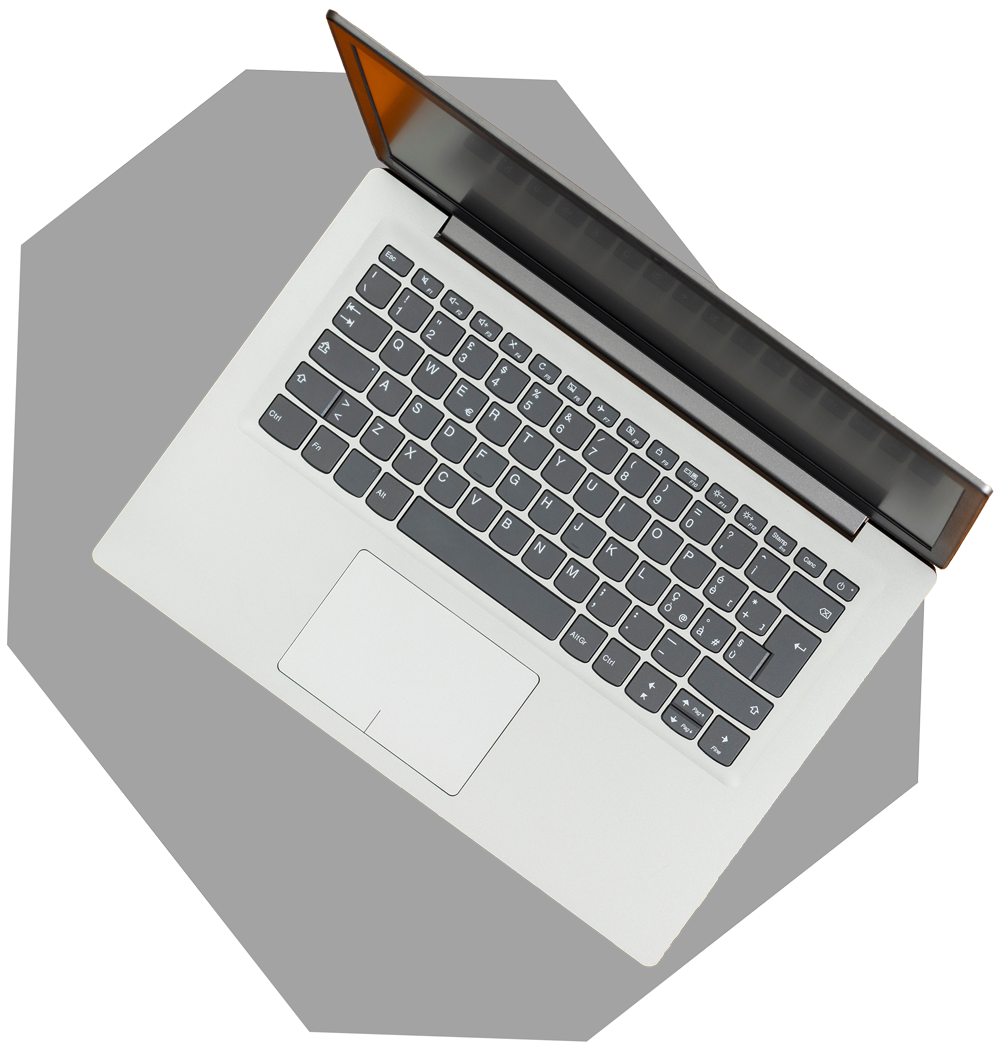
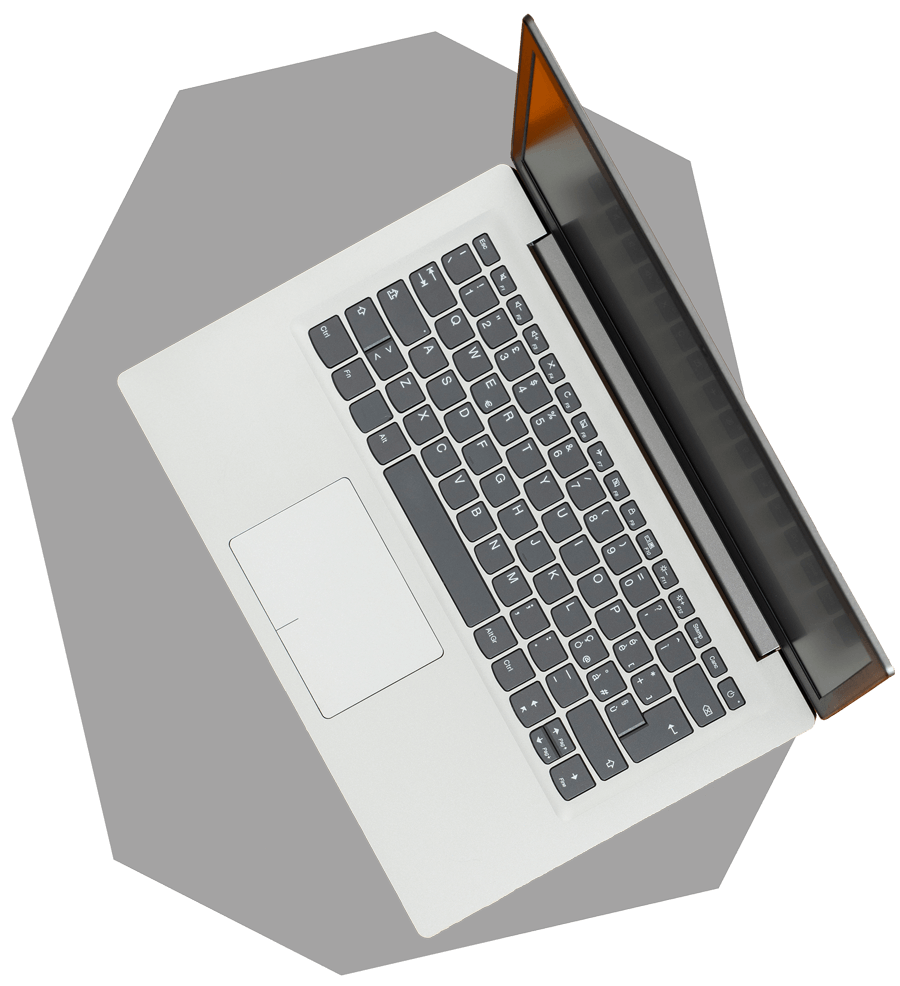
viilaukset

diff --git a/src/components/Palvelutcard.js b/src/components/Palvelutcard.js
@@ -65,7 +65,7 @@ const Palvelutcard = () => {
   return (
     <Box  sx={{  position:'relative', paddingBottom:4 , maxWidth: 1200 , margin:'auto' }}>
 
-      <Paaotsikko otsikko={'Palveluitamme'} teksti={'Olemme asiakaslähtöinen ja ammattitaitoinen suunnittelutoimisto, jossa asiointi on sujuvaa ja nopeaa. Tarjoamme kattavat LVIA-suunnittelu- ja konsultointipalvelut. Palvelemme asiakkaita niin tavanomaisissa, kuin vaativissakin projekteissa.'} />
+      <Paaotsikko otsikko={'Palveluitamme'} teksti={'Olemme asiakaslähtöinen ja ammattitaitoinen suunnittelutoimisto, jossa asiointi on sujuvaa ja nopeaa. Tarjoamme kattavat LVIA-suunnittelu- ja konsultointipalvelut. Palvelemme asiakkaita niin tavanomaisissa kuin vaativissakin projekteissa.'} />
       <Stack sx={{ justifyContent:'center', alignItems:'center', display:'flex', gap:{ xs:0,md:9 } }} direction={{ xs:'column', md:'row' }}>
         <div className='palvelutcontainer'>
           <div className='palvelutbox'>
@@ -99,7 +99,7 @@ const Palvelutcard = () => {
                 <Typography variant='h4' sx={{ fontWeight:600, marginBottom:2 , height:120 }}>
                           KVV-/IV-työnjohtajan palvelut</Typography>
                 <Typography variant='body1' sx={{ textAlign:'left', height:200 , paddingLeft:2 }}>
-                          Tilaamalla meiltä KVV-/IVtyönjohtajan palvelut saat ammattilaiset rinnallasi, jotka huolehtivat siitä, että kaikki sujuu suunnitelmien mukaisesti ja lopputulos on juuri sellainen kuin odotit. Ota yhteyttä ja säästä itsesi turhilta huolilta ja kustannuksilta.</Typography>
+                          Tilaamalla meiltä KVV-/IV-työnjohtajan palvelut saat ammattilaiset rinnallasi, jotka huolehtivat siitä, että kaikki sujuu suunnitelmien mukaisesti ja lopputulos on juuri sellainen kuin odotit. Ota yhteyttä ja säästä itsesi turhilta huolilta ja kustannuksilta.</Typography>
                 <button className='palveluticon' onClick={handleOpenKVV} onKeyUp={handleOpenKVV} type='button' tabIndex='0'><Typography sx={{ cursor:'pointer' }}>Lue lisää</Typography></button>
               </div></div></div></div></Stack>
 
@@ -133,46 +133,6 @@ const Palvelutcard = () => {
             <Stack direction={'column'} sx={{ alignItems:'center' }}>
 
               <List dense={true}>
-
-                {/* <ListItem onClick={() => setopen(true)} role='button' sx={{ cursor:'pointer' }}>
-                  <ListItemIcon>
-                    <RoofingIcon />
-                  </ListItemIcon>
-                  <ListItemText
-                    primary={'LVIA-suunnittelu'}
-
-                  />
-                  <ListItemIcon>
-                    <ArrowForwardIosIcon />
-                  </ListItemIcon>
-                </ListItem> */}
-
-                {/* <ListItem  onClick={handleOpenKVV} role='button' sx={{ cursor:'pointer' }}>
-                  <ListItemIcon>
-                    <RoofingIcon />
-                  </ListItemIcon>
-                  <ListItemText
-                    primary={'KVV-/IV- työnjohtajapalvelut'}
-                    secondary={'tavanomaisista eritysvaativiin kohteisiin'}
-                  />
-                  <ListItemIcon>
-                    <ArrowForwardIosIcon />
-                  </ListItemIcon>
-
-                </ListItem> */}
-
-                {/* <ListItem onClick={handleOpenProjekti} role='button' sx={{ cursor:'pointer' }}>
-                  <ListItemIcon>
-                    <RoofingIcon />
-                  </ListItemIcon>
-                  <ListItemText
-                    primary={'Projektinjohto ja valvontatehtävät'}
-
-                  />
-                  <ListItemIcon>
-                    <ArrowForwardIosIcon />
-                  </ListItemIcon>
-                </ListItem> */}
 
                 <ListItem onClick={handleOpenMaa} role='button' sx={{ cursor:'pointer' }} >
                   <ListItemIcon>
@@ -303,7 +263,7 @@ const Palvelutcard = () => {
               <Box id="modal-dialog-overflowLVI-suunnittelu" sx={{ mt: 2 }}>
                 <Stack sx={{ gap:2 }}>
                   <Typography>
-                LVI-suunnittelu on olennainen osa rakennuksen talotekniikkaa ja keskeinen tekijä sen elinkaaren aikaisen suorituskyvyn ja asumismukavuuden kannalta. Meidän insinööritoimistossamme panostamme laadukkaaseen ja asiakaslähtöiseen LVI-suunnitteluun, joka optimoi energiankulutuksen, parantaa sisäilman laatua ja takaa kustannustehokkaan toiminnan.
+                LVI-suunnittelu on olennainen osa rakennuksen talotekniikkaa ja keskeinen tekijä sen elinkaaren aikaisen suorituskyvyn ja asumismukavuuden kannalta.
                   </Typography>
                   <Typography>
                 Talotekniikan suunnittelussa kiinnitämme erityistä huomiota energiakustannuksiin rakennuksen koko elinkaaren aikana, erityisesti lämmitysjärjestelmissä. Pyrimme suunnittelemaan yksinkertaisia ja toimintavarmoja järjestelmiä, mikä vähentää huollon tarvetta ja parantaa energiatehokkuutta.
@@ -381,13 +341,13 @@ const Palvelutcard = () => {
                 </Stack>
                 <Stack sx={{ gap:2 }}>
                   <Typography>
-                Suosittelemme aloittamaan LVI-suunnittelun jo ennen rakennusluvan hakemista, sillä useilla paikkakunnilla lupa-asiakirjojen liitteenä vaaditaan suunnitelma ulkopuolisesta LVI-tekniikasta. Tämän lisäksi on tärkeää huomioida tarvittavat tilavaraukset laitteille, teknisille tiloille ja pääreiteille jo rakennusprojektin alkuvaiheessa.
+                Suosittelemme aloittamaan LVI-suunnittelun jo ennen rakennusluvan hakemista, sillä useilla paikkakunnilla lupa-asiakirjojen liitteenä vaaditaan suunnitelma ulkopuolen LVI-tekniikasta. Tämän lisäksi on tärkeää huomioida tarvittavat tilavaraukset laitteille, teknisille tiloille ja pääreiteille jo rakennusprojektin alkuvaiheessa.
                   </Typography>
                   <Typography>
                   Olemme vastuullinen insinööritoimisto, joka huolehtii siitä, että LVI-suunnitelmat täyttävät rakennusvalvontaviranomaisten vaatimukset. Suunnitelmat toteutetaan aina asiakkaan tarpeiden ja toiveiden pohjalta, mutta tuomme myös omat näkemyksemme esiin, jotta lopputulos on toimiva ja energiatehokas.
                   </Typography>
                   <Typography>
-                Hyödynnämme asiakkaan toiveesta suunnittelussamme tietomallinnusta (BIM, Building Information Model), joka mahdollistaa rakennuskohteen kolmiulotteisen digitaalisen esittämisen. Tietomallinnus tehostaa LVI-suunnitteluprosessia ja parantaa suunnittelun kustannustehokkuutta. Se mahdollistaa myös jatkuvan päivityksen työmaalta saatujen tietojen perusteella, jolloin asiakkaalle voidaan luovuttaa ajantasainen ja täysin toteutusta vastaava tietomalli rakennuksen valmistuttua.
+                Asiakkaan niin halutessa hyödynnämme suunnittelussamme tietomallinnusta (BIM, Building Information Model), joka mahdollistaa rakennuskohteen kolmiulotteisen esittämisen digitaalisti. Tietomallinnus tehostaa LVI-suunnitteluprosessia ja parantaa suunnittelun kustannustehokkuutta. Se mahdollistaa myös jatkuvan päivityksen työmaalta saatujen tietojen perusteella, jolloin asiakkaalle voidaan luovuttaa ajantasainen ja täysin toteutusta vastaava tietomalli rakennuksen valmistuttua.
                   </Typography>
                 </Stack>
               </Box>
@@ -426,7 +386,7 @@ const Palvelutcard = () => {
               </Typography>
               <Box id="modal-dialog-Projektijohto21" sx={{ mt: 2 }}>
                 <Typography>
-              Tarjoamme projektinjohto- ja rakennuttamistehtäviä, jotka toteutamme hankkeen tarpeiden mukaisesti.
+              Otamme vastaan projektinjohto- ja rakennuttamistehtäviä, jotka toteutamme hankkeen tarpeiden mukaisesti.
                 </Typography>
                 <Typography>Näihin tehtäviin kuuluvat mm.</Typography>
                 <List dense={true}>
@@ -551,11 +511,7 @@ const Palvelutcard = () => {
                 KVV- ja IV- työnjohtaja toimii rakennuttajan edunvalvojana varmistaen, että suunnitelmat ja määräykset toteutetaan työmaalla asianmukaisesti.
 
                   </Typography>
-                  <Typography>
-                KVV- ja IV- työnjohtajamme pätevyys on erityisvaativa. Toimeksiannoissamme noudatamme konsulttialan yleisiä sopimusehtoja KSE 2013.
-                  </Typography>
-
-                  <Typography>KVV- ja IV- työnjohtajan tehtävä on:</Typography>
+                  <Typography>KVV- ja IV- työnjohtajan tehtävänä on valvoa:</Typography>
                 </Stack>
                 <List dense={true}>
 
@@ -565,6 +521,7 @@ const Palvelutcard = () => {
                     </ListItemIcon>
                     <ListItemText
                       primary="Valvoa työvaiheiden sujumista"
+                      secondary='KVV- ja IV- vastaava työnjohtaja ottaa vastuun töistä ja pitää huolen siitä, että kaikki vesi-, viemäri- ja ilmanvaihtotyöt toteutetaan turvallisesti, terveellisesti ja viranomaismääräysten mukaisesti.'
 
                     />
                   </ListItem>
@@ -574,7 +531,7 @@ const Palvelutcard = () => {
                     </ListItemIcon>
                     <ListItemText
                       primary="Laadun varmistamista"
-
+                      secondary='Hankkimalla työnjohtajan palvelut jo projektin alkuvaiheessa varmistat, että työmaasi etenee sujuvasti, suunnitelmat toteutuvat sovitusti ja kaikki viranomaismääräykset ovat täytetty.'
                     />
                   </ListItem>
                   <ListItem>
@@ -583,20 +540,17 @@ const Palvelutcard = () => {
                     </ListItemIcon>
                     <ListItemText
                       primary="Työn suorittamista oikein"
-
+                      secondary='Työnjohtajamme pystyy tarjoamaan arvokkaita neuvoja ja ohjausta, jotka auttavat sinua tekemään oikeita päätöksiä ja välttämään mahdolliset sudenkuopat, joita rakennusprosessi saattaa sisältää. Se puolestaan auttaa sinua välttämään mahdolliset ongelmat ja ylimääräiset kustannukset myöhemmin.'
                     />
                   </ListItem>
 
                 </List>
                 <Stack sx={{ gap:2 }}>
                   <Typography>
-                KVV- ja IV- vastaava työnjohtaja ottaa vastuun töistä ja pitää huolen siitä, että kaikki vesi-, viemäri- ja ilmanvaihtotyöt toteutetaan turvallisesti, terveellisesti ja viranomaismääräysten mukaisesti.
-                  </Typography>
-                  <Typography>
-                Hankkimalla työnjohtajan palvelut jo projektin alkuvaiheessa varmistat, että työmaasi etenee sujuvasti, suunnitelmat toteutuvat sovitusti ja kaikki viranomaismääräykset ovat täytetty. Työnjohtajamme pystyy tarjoamaan arvokkaita neuvoja ja ohjausta, jotka auttavat sinua tekemään oikeita päätöksiä ja välttämään mahdolliset sudenkuopat, joita rakennusprosessi saattaa sisältää. Se puolestaan auttaa sinua välttämään mahdolliset sudenkuopat ja ylimääräiset kustannukset myöhemmin.
-                  </Typography>
-                  <Typography>
                 Varmista, että sinulla on ammattilainen rinnallasi, joka huolehtii siitä, että kaikki sujuu suunnitelmien mukaisesti ja lopputulos on juuri sellainen kuin odotit. Ota yhteyttä ja säästä itsesi turhilta huolilta ja kustannuksilta.
+                  </Typography>
+                  <Typography>
+                KVV- ja IV- työnjohtajamme pätevyys on erityisvaativa. Toimeksiannoissamme noudatamme konsulttialan yleisiä sopimusehtoja KSE 2013.
                   </Typography>
                 </Stack>
               </Box>

diff --git a/src/components/Lupauksemme.js b/src/components/Lupauksemme.js
@@ -10,17 +10,17 @@ const Lupauksemme = () => {
         <Paaotsikko otsikko={'Miksi valita meidät?'} teksti={'Asiakkaiden luottamus on arvokkain voimavaramme! Sitoudumme tinkimättömään laatuun ja asiakkaan tyytyväisyyteen jokaisessa kohtaamisessa.'} />
       </Box>
       <Stack direction={'column'} sx={{ maxWidth:950, margin:'auto', gap:3, padding:3, paddingTop:3 }}>
-        <Lupaus teksti={'Laatu on meille ykkösasia. Tarjoamme LVI-suunnittelupalveluita, joissa huippulaatu on taattu. Kokeneet suunnittelijamme varmistavat, että jokainen suunnitelma on tarkka, kestävä ja toimiva. Käytämme parhaita materiaaleja ja nykyaikaisia suunnittelumenetelmiä varmistaaksemme rakennuksesi pitkäikäisyyden ja toiminnallisuuden. Luota ammattitaitoomme ja valitse laadukas LVI-suunnittelu.'} otsikko1={'Korkea laatu'} otsikko2={''}/>
+        <Lupaus teksti={'Laatu on meille ykkösasia. Tarjoamme LVI-suunnittelupalveluita, joissa huippulaatu on taattu. Kokeneet suunnittelijamme varmistavat, että jokainen suunnitelma on tarkka, kestävä ja toimiva. Käytämme parhaita materiaaleja ja nykyaikaisia suunnittelumenetelmiä varmistaaksemme rakennuksesi pitkäikäisyyden ja toiminnallisuuden. Luota ammattitaitoomme ja valitse laadukas LVI-suunnittelu.'} otsikko1={'Korkea laatu'} />
 
-        <Lupaus teksti={'Toimintamme on läpinäkyvää ja avointa. Näet kaiken dokumentaation kätevästi millä tahansa verkkolaitteella pilvipohjaisen modernin ohjelmiston avulla.'} otsikko1={'Läpinäkyvyys'} otsikko2={''}/>
-
-
-        <Lupaus teksti={'Meidän LVI-suunnittelupalvelumme takaavat nopean reagoinnin ja tehokkaan työnkulun. Ammattitaitoinen tiimimme kykenee toimittamaan korkealaatuiset suunnitelmat lyhyessä ajassa, jotta voit aloittaa rakennusprojektisi nopeasti. Säästä aikaa ja vaivaa valitsemalla meidät nopeuden ja laadun tinkimättömyyden vuoksi.'} otsikko1={'Nopeus'} otsikko2={''}/>
+        <Lupaus teksti={'Toimintamme on läpinäkyvää ja avointa. Näet kaiken dokumentaation kätevästi millä tahansa verkkolaitteella pilvipohjaisen modernin ohjelmiston avulla.'} otsikko1={'Läpinäkyvyys'}/>
 
 
-        <Lupaus teksti={'Säästä rahaa pitkällä tähtäimellä valitsemalla kustannustehokas LVI-suunnittelu. Meidän palvelumme keskittyvät energiatehokkuuteen ja resurssien optimaaliseen hyödyntämiseen. Suunnittelemme LVI-järjestelmät siten, että ne tarjoavat tehokkaan energiankulutuksen ja alhaiset käyttökustannukset. Näin voit säästää rahaa rakennuksen koko elinkaaren ajan. Olemme kumppanisi kohti taloudellisesti kannattavia ratkaisuja.'} otsikko1={'Kustannustehokkuus'} otsikko2={''}/>
+        <Lupaus teksti={'Meidän LVI-suunnittelupalvelumme takaavat nopean reagoinnin ja tehokkaan työnkulun. Ammattitaitoinen tiimimme kykenee toimittamaan korkealaatuiset suunnitelmat lyhyessä ajassa, jotta voit aloittaa rakennusprojektisi sujuvasti. Säästä aikaa ja vaivaa valitsemalla meidät nopeuden ja laadun tinkimättömyyden vuoksi.'} otsikko1={'Nopeus'}/>
 
-        <Lupaus teksti={'Asiakkaitemme tarpeet ovat meille ensisijaisia. Asiakaslähtöinen LVI-suunnittelu on vahvuutemme, ja tavoitteenamme on toteuttaa visiosi sellaisena kuin haluat. Käytämme aikaa kuunnellaksemme tarpeitasi ja ymmärtääksemme projektisi vaatimukset. Tämän avulla pystymme suunnittelemaan LVI-ratkaisuja, jotka vastaavat täysin odotuksiasi.'} otsikko1={'Asiakaslähtöisyys'} otsikko2={''}/>
+
+        <Lupaus teksti={'Palvelumme keskittyvät energiatehokkuuteen ja resurssien optimaaliseen hyödyntämiseen. Suunnittelemme LVI-järjestelmät siten, että ne tarjoavat tehokkaan energiankulutuksen ja alhaiset käyttökustannukset. Näin voit säästää kustannuksissa rakennuksen koko elinkaaren ajan. Olemme kumppanisi kohti taloudellisesti kannattavia ratkaisuja.'} otsikko1={'Kustannustehokkuus'} />
+
+        <Lupaus teksti={'Asiakkaittemme tarpeet ovat meille ensisijaisia. Asiakaslähtöinen LVI-suunnittelu on vahvuutemme. Tavoitteenamme on toteuttaa visiosi sellaisena kuin haluat. Käytämme aikaa kuunnellaksemme tarpeitasi ja ymmärtääksemme projektisi vaatimukset. Tämän avulla pystymme suunnittelemaan LVI-ratkaisuja, jotka vastaavat parhaiten odotuksiasi.'} otsikko1={'Asiakaslähtöisyys'}/>
       </Stack>
 
     </Box>

diff --git a/src/components/Palvelupolkusteps.js b/src/components/Palvelupolkusteps.js
@@ -83,7 +83,7 @@ export default function Palvelupolkusteps() {
                   Luonnossuunnitelma
             </StepLabel>
             <StepContent>
-              <Polkuitem kuva={doc} numero={'2.'} otsikko1={'Luonnos'} otsikko2={'suunnitelma'} teksti={'Projektipalaverin pohjalta laadimme luonnossuunnitelmia, jotka esittelemme asiakkaalle. Tämä vaihe on erittäin tärkeä, koska haluamme varmistaa, että suunnitelmat vastaavat asiakkaan toiveita ja tarpeita. Keräämme palautetta ja kuuntelemme huolellisesti, jos heillä on muutostoiveita.'}/>
+              <Polkuitem kuva={doc} numero={'2.'} otsikko1={'Luonnos'} otsikko2={'suunnitelma'} teksti={'Projektipalaverin pohjalta laadimme luonnossuunnitelmia, jotka esittelemme asiakkaalle. Tämä vaihe on erittäin tärkeä, koska haluamme varmistaa, että suunnitelmat vastaavat asiakkaan toiveita ja tarpeita. Keräämme palautetta ja kuuntelemme huolellisesti mahdollisia muutostoiveita.'}/>
               <Box sx={{ mb: 2 }}>
                 <div>
                   <ColorButton
@@ -138,7 +138,7 @@ export default function Palvelupolkusteps() {
             </StepLabel>
             <StepContent>
               <Polkuitem kuva={building} numero={'4.'} otsikko1={'Rakennus'} otsikko2={'valvonta'}
-                teksti={'Kun rakennusvalvonta on laittanut leimat suunnitelmiin, voidaan aloittaa työt. On muistettava, että ennen töiden aloitusta, kun kyseessä on rakennuslupa, LVI-töille on oltava KVV/IV-työnjohtaja. Tarjoamme tämänkin palvelun.'}/>
+                teksti={'Kun rakennusvalvonta on laittanut leimat suunnitelmiin, voidaan aloittaa työt. Toimimme asiakkaan näin halutessa KVV-/IV-työnjohtajan ominaisuudessa tai hoidamme rakennusvalvontaan liittyvät velvotteemme.'}/>
               <Box sx={{ mb: 2 }}>
                 <div>
                   <ColorButton

diff --git a/src/components/Footer.js b/src/components/Footer.js
@@ -139,8 +139,8 @@ const Footer = () => {
       </Stack>
 
       <Box  sx={{ textAlign:'center', paddingTop:2, cursor:'pointer' }} >
-        <LinkedInIcon aria-label="Linkki SapAir Oy Linkedin-sivulle"  aria-describedby="new-window-Linkedin" aria-hidden="false" focusable="true" fontSize='large' tabIndex="0" role="button" onClick={() =>  window.location.href='https://www.linkedin.com/company/insin%C3%B6%C3%B6ritoimisto-sapair-oy/'} />
-
+        <a href='https://www.linkedin.com/company/insin%C3%B6%C3%B6ritoimisto-sapair-oy/' tabIndex="0" aria-describedby="new-window-Linkedin" aria-label="Linkedin" target="_blank" rel="noreferrer"><LinkedInIcon fontSize='large'  />
+        </a>
       </Box>
 
       <Stack direction={{ xs: 'column', sm: 'row' }} gap={2} sx={{ textAlign:'center', paddingTop:2, alignItems:'center', justifyContent:'center' }} >
@@ -173,7 +173,7 @@ const Footer = () => {
                   <Typography variant='h6' sx={{ pr:1 }}>
                     Irina Tatti
                   </Typography>
-                  <LinkedInIcon onClick={() =>  window.open('https://www.linkedin.com/in/irina-tatti/')} aria-describedby="new-window-Linkedin"/>
+                  <a href='https://www.linkedin.com/in/irina-tatti/' aria-describedby="new-window-Linkedin" aria-label="Linkedin" target="_blank" rel="noreferrer"><LinkedInIcon/></a>
                 </Stack>
               </Stack>
               <Typography fontSize={'small'}>

diff --git a/src/components/Header.js b/src/components/Header.js
@@ -1,7 +1,7 @@
 import React from 'react'
 import { Link } from 'react-router-dom'
 import { Box } from '@mui/material'
-import talo from '../images/poyta2.jpg'
+import talo from '../images/poyta3.jpg'
 
 const Header = () => {
   document.addEventListener('mousemove', e => {
@@ -14,7 +14,7 @@ const Header = () => {
   })
   return (
     <>
-      <Box role='img' className="layers__item" aria-label='LVIA-suunnittelu' sx={{ backgroundImage: `url(${talo})`, backgroundPosition: { xs:'bottom', md:'left top', xl:'center' } ,height:{ xs:'50vh',md:'1000px', xl:'155vh' } }}></Box>
+      <Box role='img' className="layers__item" aria-label='LVIA-suunnittelu' sx={{ backgroundImage: `url(${talo})`, backgroundPosition: { xs:'bottom', sm:'top', md:'left bottom', xl:'center' } ,height:{ xs:'50vh', sm:'800px',md:'1000px', xl:'155vh' } }}></Box>
       <section aria-label='header' className="layers">
         <Box className="layers__container" sx={{ height:{ xs:'40vh',md:'50vh' }, minHeight:{ xs:'50vh',md:'70vh' }, maxHeigh:'2000px' }}>
 

diff --git a/src/components/Lupaus.js b/src/components/Lupaus.js
@@ -1,10 +1,10 @@
 import React from 'react'
 import { Stack, Typography } from '@mui/material'
-import Rivitys from '../otsikot/Rivitys'
+// import Rivitys from '../otsikot/Rivitys'
 import DoneOutlineIcon from '@mui/icons-material/DoneOutline'
 
 
-const Lupaus = ({ teksti, otsikko1, otsikko2 }) => {
+const Lupaus = ({ teksti, otsikko1 }) => {
   return (
     <>
       <Stack direction={'row'} sx={{}}>
@@ -17,8 +17,8 @@ const Lupaus = ({ teksti, otsikko1, otsikko2 }) => {
             {/* <Typography variant={'h5'} sx={{fontWeight:'bold', fontSize:'200%', alignSelf:'center'}}>
               {otsikko1}{otsikko2}
               </Typography> */}
-            <Rivitys osa1={otsikko1} osa2={otsikko2} varianti={'h5'}/>
-
+            {/* <Rivitys osa1={otsikko1} osa2={otsikko2} varianti={'h5'}/> */}
+            <Typography variant={'h5'}>{otsikko1}</Typography>
           </Stack>
           <Typography sx={{ pt:1 }}>
 

diff --git a/src/components/Otayhteyttanappulassa.js b/src/components/Otayhteyttanappulassa.js
@@ -40,7 +40,7 @@ const StyledButton = styled(Box)`
 const Otayhteyttanappulassa = () => {
   return (
 
-    <Box aria-describedby='otayhteytta' className="boxit" sx={{ backgroundImage: { xs:'none', md:`url(${table})` }, backgroundRepeat: 'no-repeat', backgroundSize: 'contain', maxWidth:2000, margin:'auto' }}>
+    <Box aria-describedby='otayhteytta' className="boxit" sx={{ backgroundImage: { xs:'none', md:`url(${table})` }, backgroundRepeat: 'no-repeat', backgroundSize: 'contain', maxWidth:2000, margin:'auto', marginBottom:10 }}>
       <div className='boxicontainer' style={{ marginTop:5, marginBottom:10, maxWidth:800, margin:'auto' }}>
         <div className='boxi'>
           <div className='coverboxi'></div>

diff --git a/src/components/Meistasanottua.js b/src/components/Meistasanottua.js
@@ -13,7 +13,7 @@ const Meistasanottua = () => {
   return (
 
     <Box className="boxit"  sx={{ alignItems:'center', justifyContent:'center' , position:'relative' }}>
-      <Box sx={{ position:'absolute', top:{ xs:'30%', md:'20%', xl:'-20%' }, right:{ xs:-20, xl:'5%' }, width:'80vh', transform: 'rotate(25deg)' }} >
+      <Box sx={{ position:'absolute', top:{ xs:'25%', md:'20%', xl:'20%' }, right:{ xs:-70, xl:'25%' }, width:'80vh', maxWidth:600 }} >
         <img src={tablelasit} alt='kannettava tietokone harmaalla taustalla' style={{ width: '100%' }}/></Box>
       <Box sx={{ margin:{ xs:'auto', sm:5, lg:'auto' }, width:{ xs:'80%', md:500, lg:800 } }} className='palautebox'>
 
